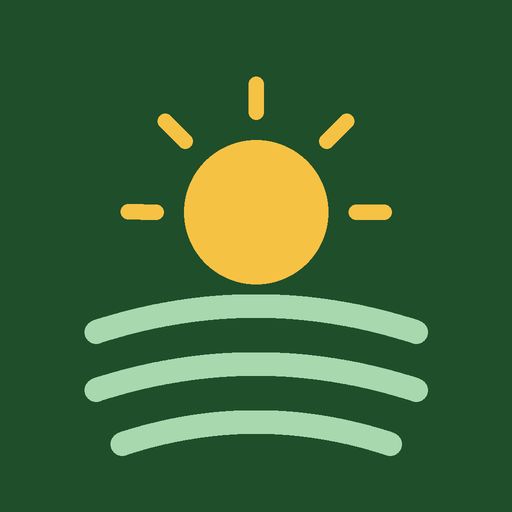
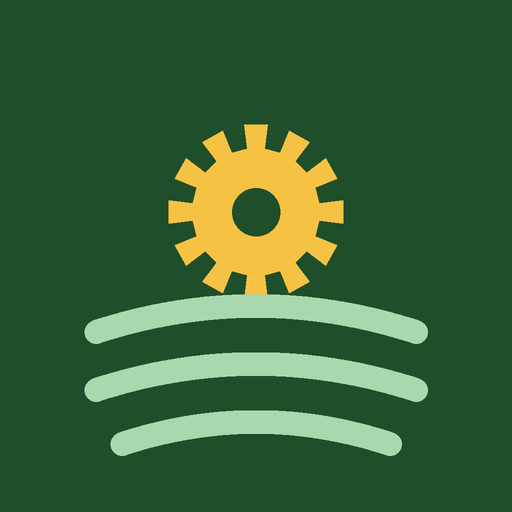
Make the sun a sun-yellow cog (hollow center) to signal tools

Changed region(s): [[0.2188, 0.1562, 0.7812, 0.5938], [0.4375, 0.3438, 0.5625, 0.4688]]

diff --git a/index.html b/index.html
@@ -157,14 +157,8 @@
   <div class="title-row">
     <div class="title-icon">
       <svg viewBox="0 0 64 64" width="40" height="40" aria-hidden="true">
-        <circle cx="32" cy="26" r="9" fill="#ef9f0a"/>
-        <g stroke="#ef9f0a" stroke-width="2.4" stroke-linecap="round">
-          <path d="M32 13.5 V10"/>
-          <path d="M40.84 17.16 L43.31 14.69"/>
-          <path d="M44.5 26 H48"/>
-          <path d="M23.16 17.16 L20.69 14.69"/>
-          <path d="M19.5 26 H16"/>
-        </g>
+        <path fill="#ef9f0a" d="M42.90 24.51 L42.90 27.49 L39.93 27.09 L39.41 29.02 L42.18 30.16 L40.69 32.74 L38.32 30.90 L36.90 32.32 L38.74 34.69 L36.16 36.18 L35.02 33.41 L33.09 33.93 L33.49 36.90 L30.51 36.90 L30.91 33.93 L28.98 33.41 L27.84 36.18 L25.26 34.69 L27.10 32.32 L25.68 30.90 L23.31 32.74 L21.82 30.16 L24.59 29.02 L24.07 27.09 L21.10 27.49 L21.10 24.51 L24.07 24.91 L24.59 22.98 L21.82 21.84 L23.31 19.26 L25.68 21.10 L27.10 19.68 L25.26 17.31 L27.84 15.82 L28.98 18.59 L30.91 18.07 L30.51 15.10 L33.49 15.10 L33.09 18.07 L35.02 18.59 L36.16 15.82 L38.74 17.31 L36.90 19.68 L38.32 21.10 L40.69 19.26 L42.18 21.84 L39.41 22.98 L39.93 24.91 Z"/>
+        <circle cx="32" cy="26" r="3.1" fill="#fff"/>
         <g stroke="#2e6f3e" stroke-width="3.4" stroke-linecap="round" fill="none">
           <path d="M9 44 q23 -7 46 0"/>
           <path d="M9 52 q23 -7 46 0"/>

diff --git a/build_icons.py b/build_icons.py
@@ -48,19 +48,26 @@ def quad_points(p0, c, p2, n=400):
 img = Image.new("RGB", (S, S), BG)
 d = ImageDraw.Draw(img)
 
-# sun (circle)
-SUN_C, SUN_R = (256, 212), 72
-cx, cy, r = P(*SUN_C)[0], P(*SUN_C)[1], SUN_R * sc
-d.ellipse([cx - r, cy - r, cx + r, cy + r], fill=AMBER)
+# sun as a cog (gear) — 12 teeth with a hollow center
+SUN_C = (256, 212)
 
-# rays — evenly spaced across the upper half, each the same distance from the sun's edge
-ray_inner, ray_outer = SUN_R + 28, SUN_R + 56
-for deg in (0, 45, 90, 135, 180):
-    rad = math.radians(deg)
-    dx, dy = math.cos(rad), -math.sin(rad)
-    a = (SUN_C[0] + ray_inner * dx, SUN_C[1] + ray_inner * dy)
-    b = (SUN_C[0] + ray_outer * dx, SUN_C[1] + ray_outer * dy)
-    stamp(d, seg_points(P(*a), P(*b)), 15, AMBER)
+
+def gear_pts(c, r_root, r_tip, n=12, tip_frac=0.52):
+    pitch = 2 * math.pi / n
+    th_half = pitch * tip_frac / 2
+    pts = []
+    for k in range(n):
+        th = k * pitch
+        for r, a in [(r_tip, th - th_half), (r_tip, th + th_half),
+                     (r_root, th + th_half), (r_root, th + pitch - th_half)]:
+            pts.append(P(c[0] + r * math.cos(a), c[1] + r * math.sin(a)))
+    return pts
+
+
+d.polygon(gear_pts(SUN_C, 64, 88), fill=AMBER)
+bx, by = P(*SUN_C)
+br = 24 * sc
+d.ellipse([bx - br, by - br, bx + br, by + br], fill=BG)
 
 # furrows
 furrows = [((96, 332), (256, 280), (416, 332)),